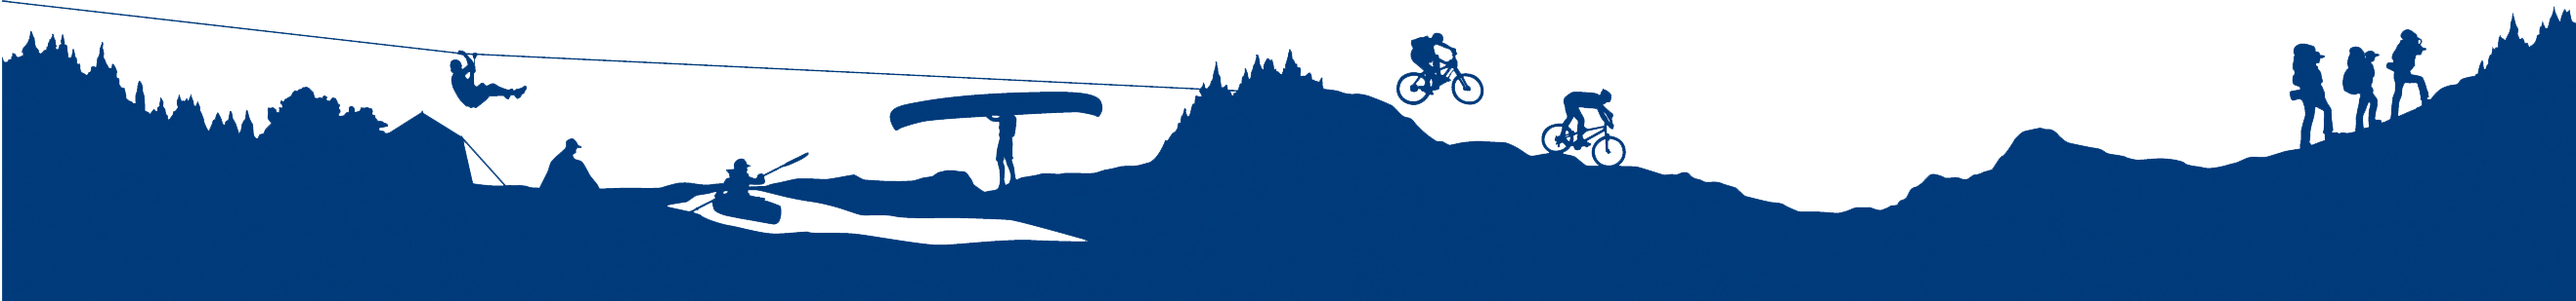
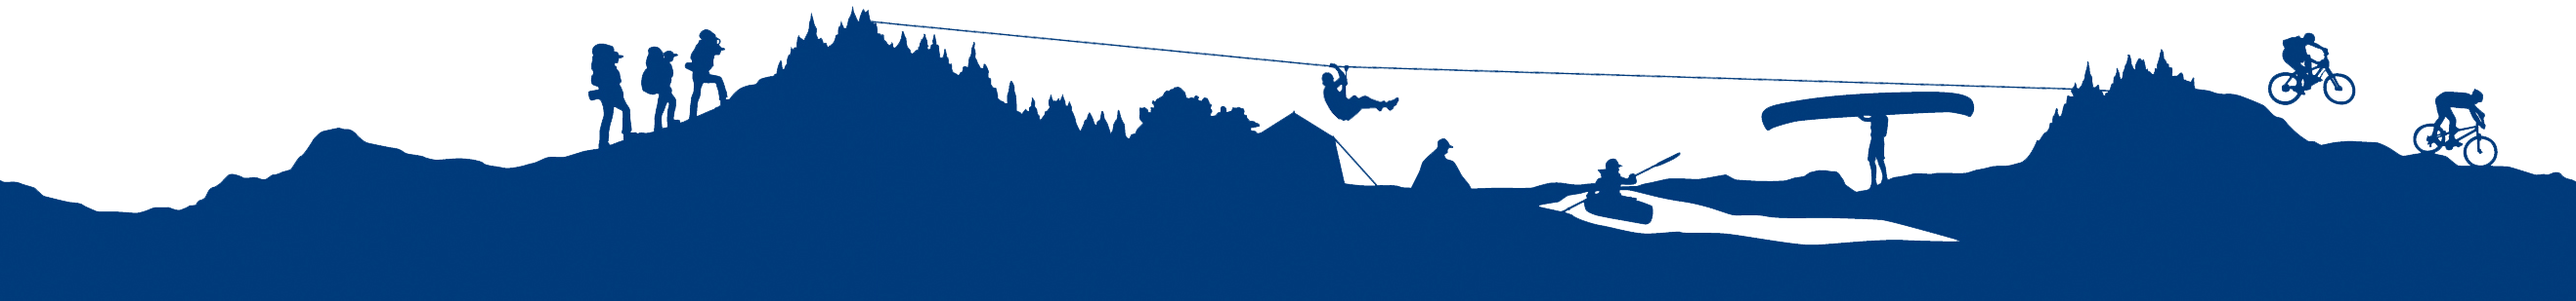
Footer image modified by someone more adept (klphan.com) than I at editing images.

diff --git a/style.css b/style.css
@@ -201,7 +201,7 @@ a:visited {
 
 /* Footer */
 #footer {
-    background-image: url('images/ActionFolio_blue2.png');
+    background-image: url('images/ActionFolio_blue.png');
     background-repeat: repeat-x;
     clear: both;
     font-size: .9em;

diff --git a/readme.md b/readme.md
@@ -24,22 +24,12 @@ This theme contains minor changes to the official BSA images. All the changes ar
     * Saved as PNG.
 
 * [BSA Stationery Action Folio](http://www.scouting.org/filestore/marketing/images/ActionFolio_blue.png)
-    * Minor image modification so it can loop.
+    * Minor image modification to mountains and zip-line so it can loop.
 
 ###Credits
 [Scouting](http://www.scouting.org)
-
+[Wordpress](http://wordpress.org)
 [Sticky Footer Code](http://www.cssstickyfooter.com/using-sticky-footer-code.html)
-
-
-To Do
------
-* Link to home in header/title
-* Update single, category, comments, and other neglected php files.
-* CSS for inside post entries and comment sections.
-* Changeable logo and colors (ie for cub scouts, venture, etc...)
-* Footer info options (like meeting time and place and contact info)
-* Less minor changes to footer image, do something with the end of that rope that's just kind of out there.
 
 
 Log
